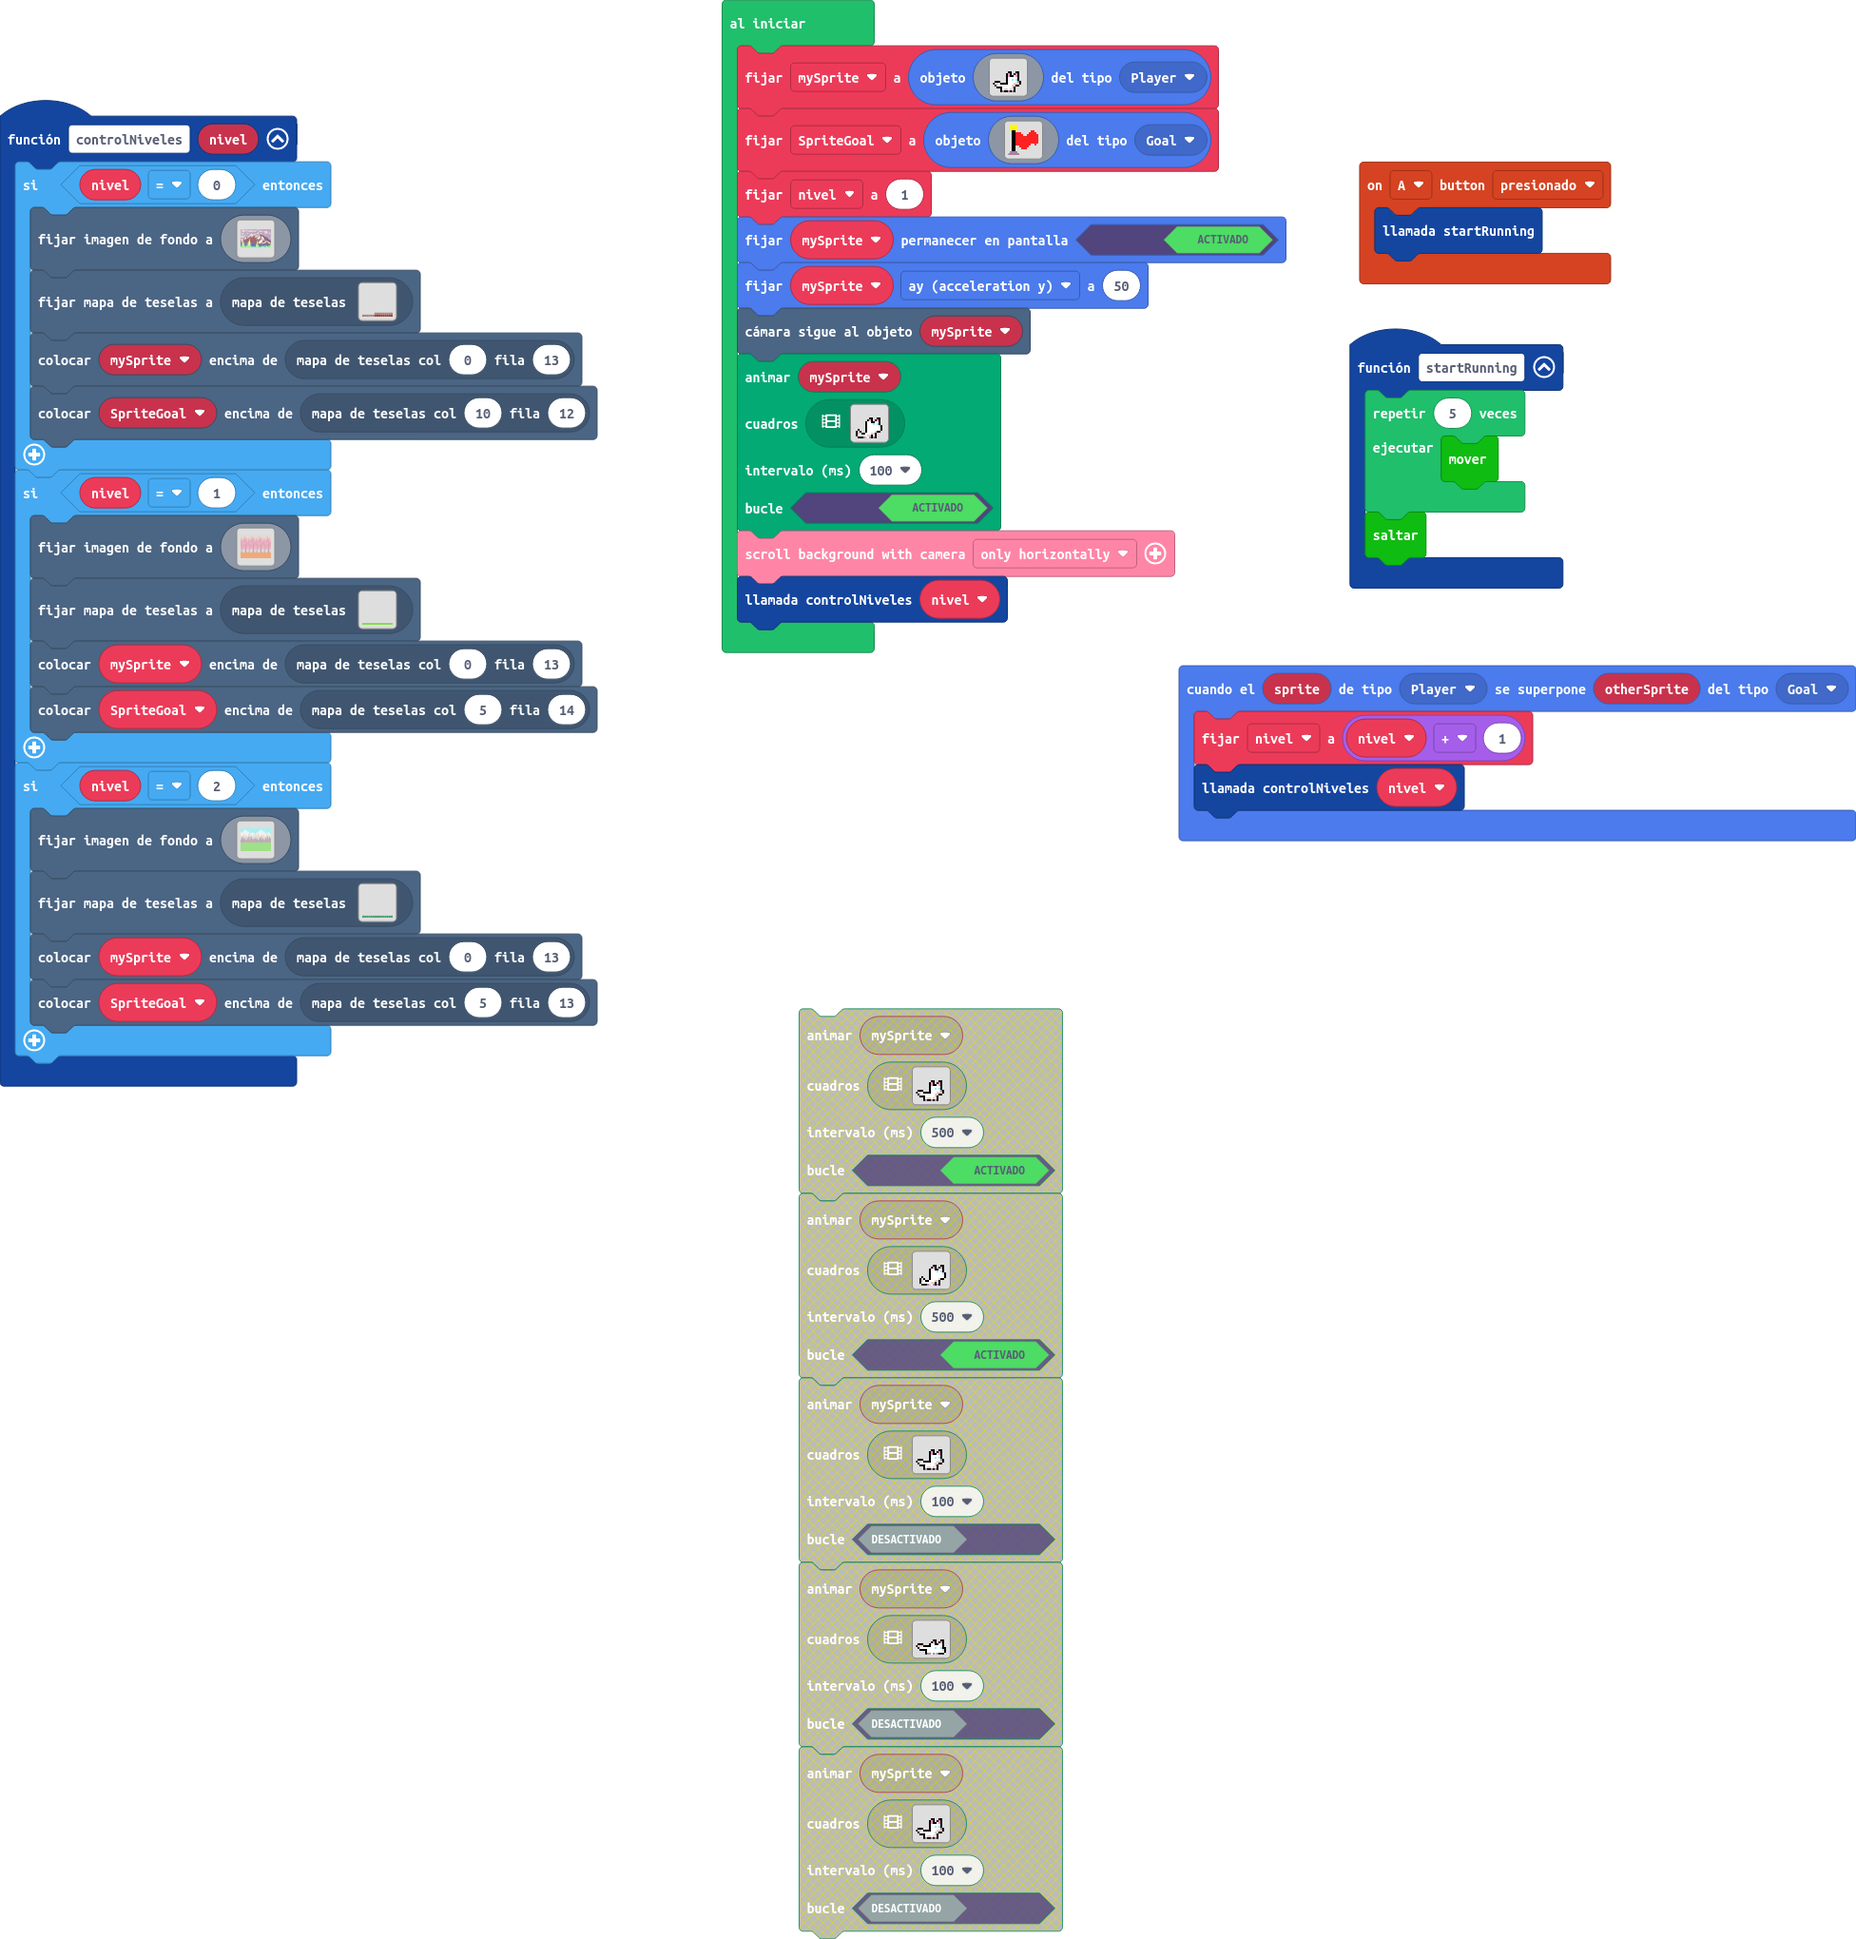
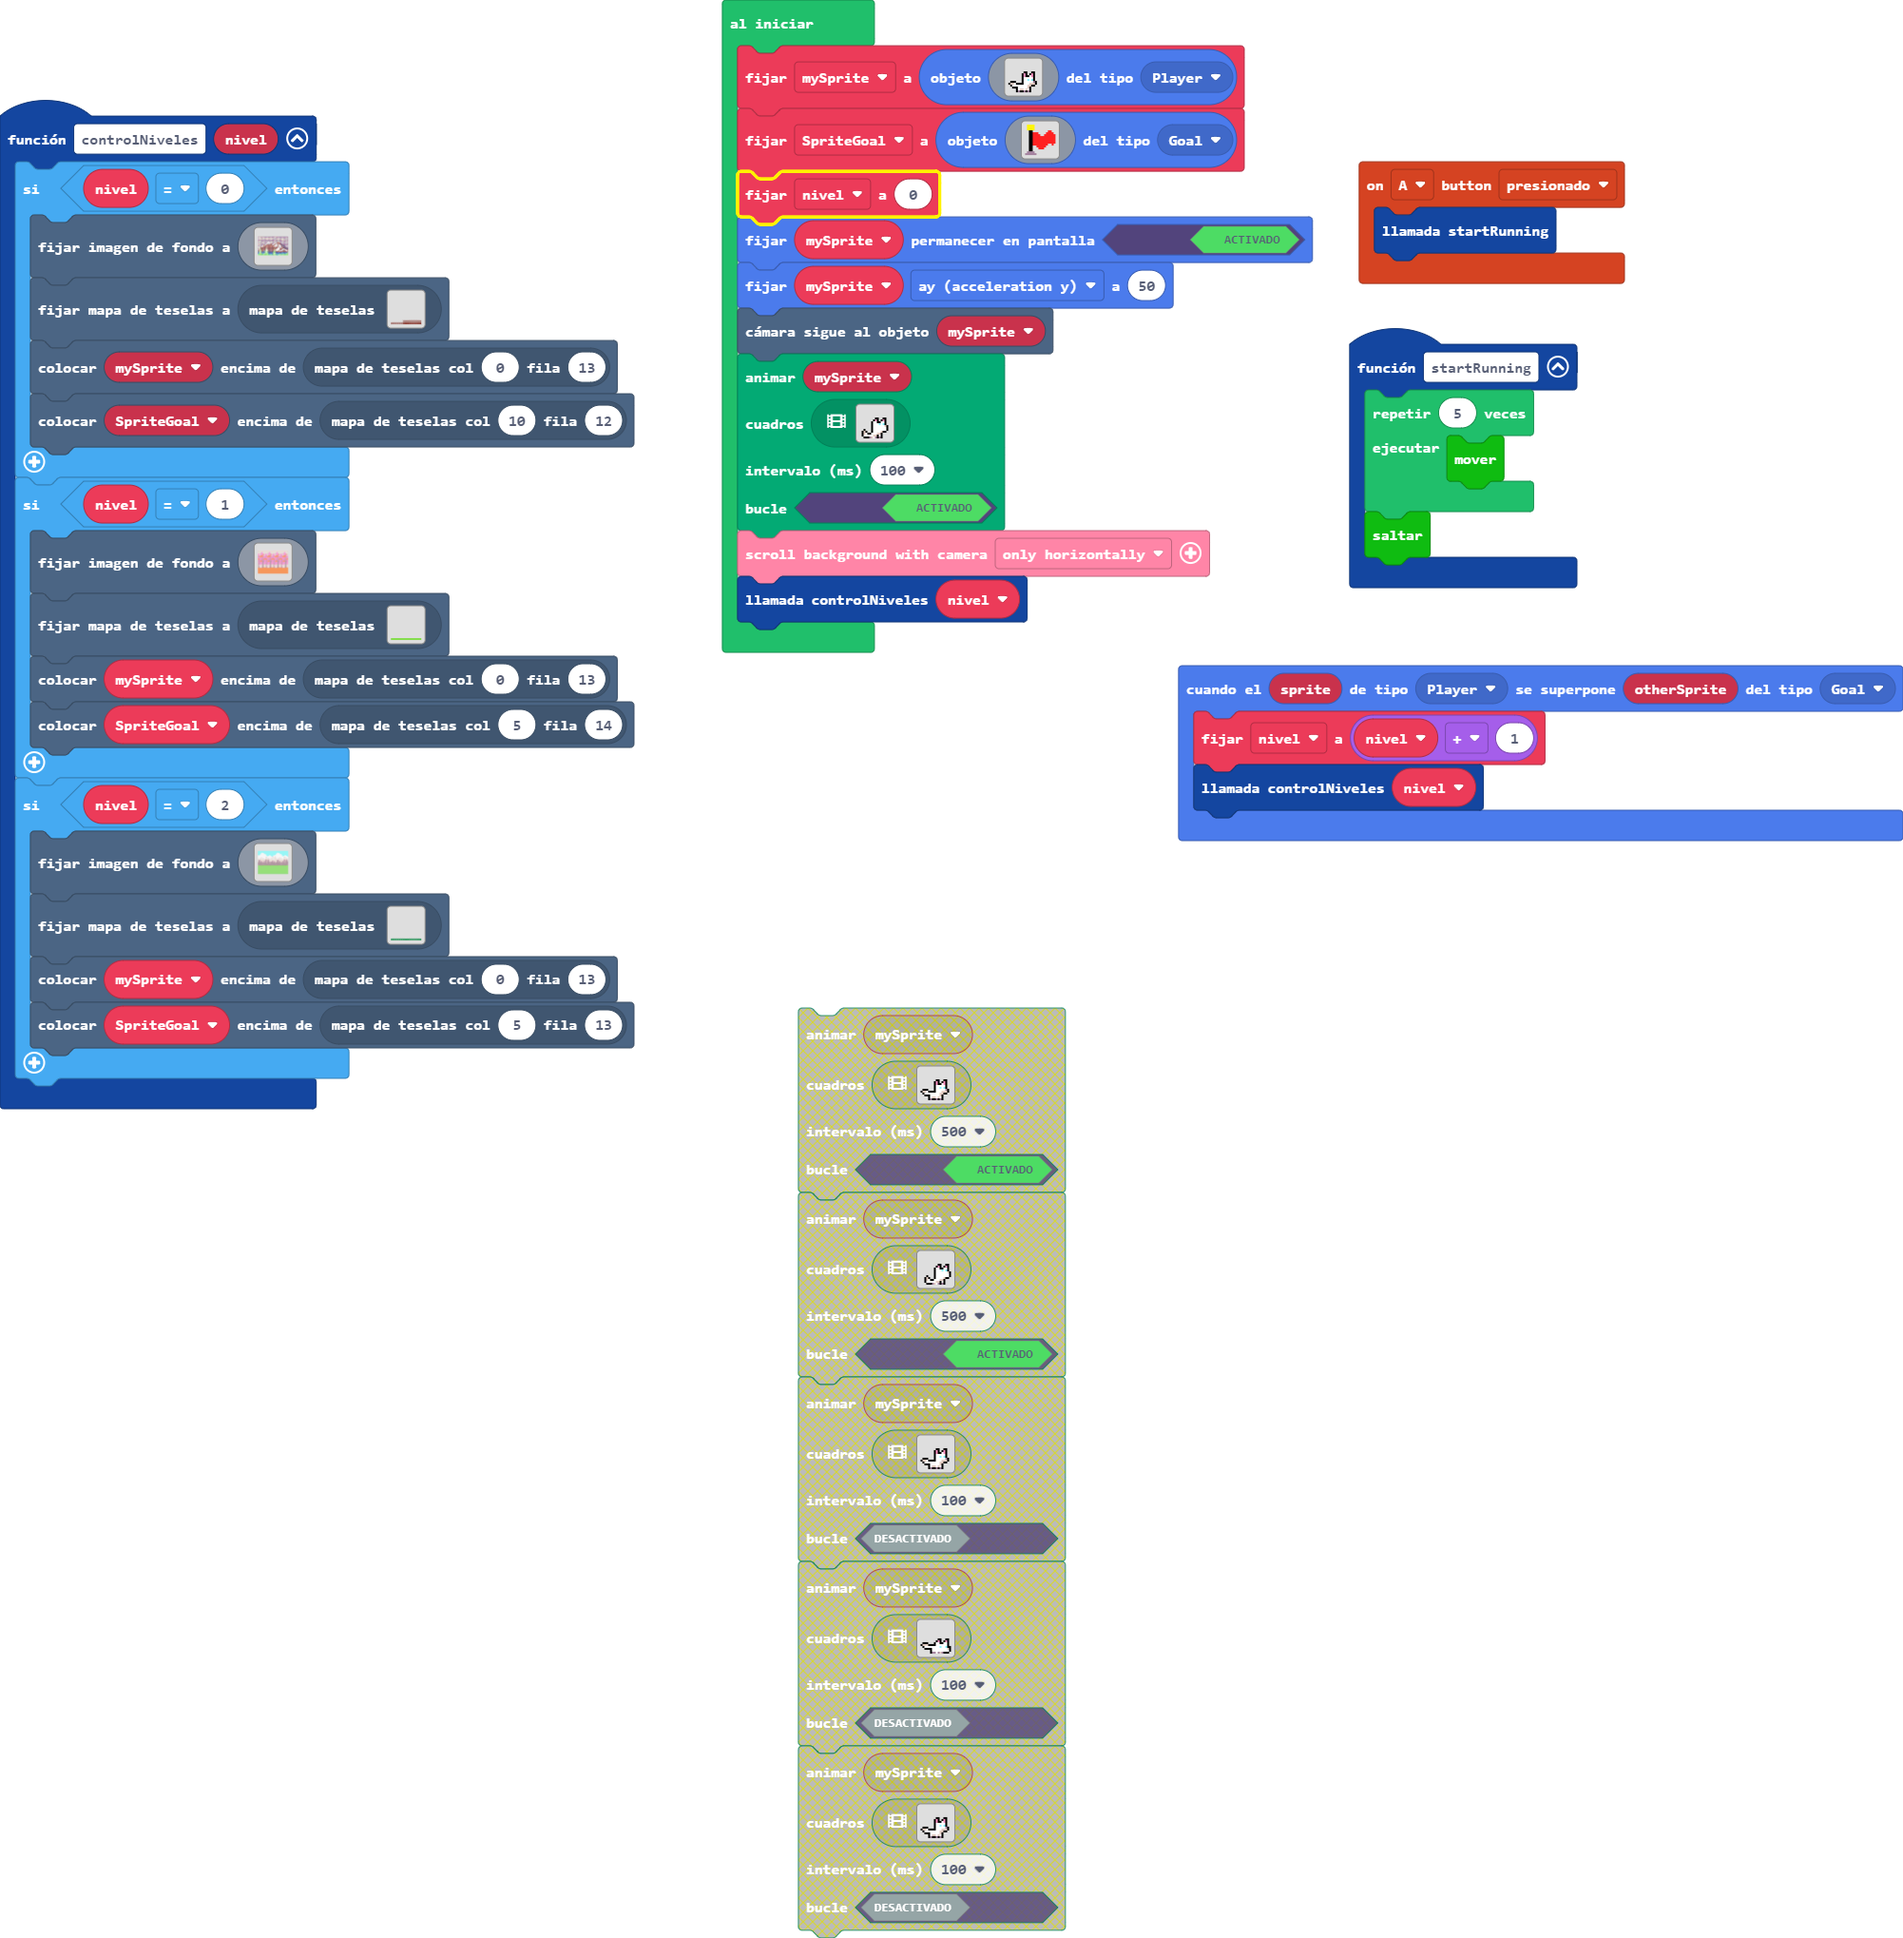
Actualizar main.blocks, main.ts

diff --git a/main.ts b/main.ts
@@ -286,7 +286,7 @@ let SpriteGoal: Sprite = null
 let mySprite: Sprite = null
 mySprite = sprites.create(assets.image`snow_fox`, SpriteKind.Player)
 SpriteGoal = sprites.create(assets.image`myImage1`, SpriteKind.Goal)
-nivel = 1
+nivel = 0
 mySprite.setStayInScreen(true)
 mySprite.ay = 50
 scene.cameraFollowSprite(mySprite)
